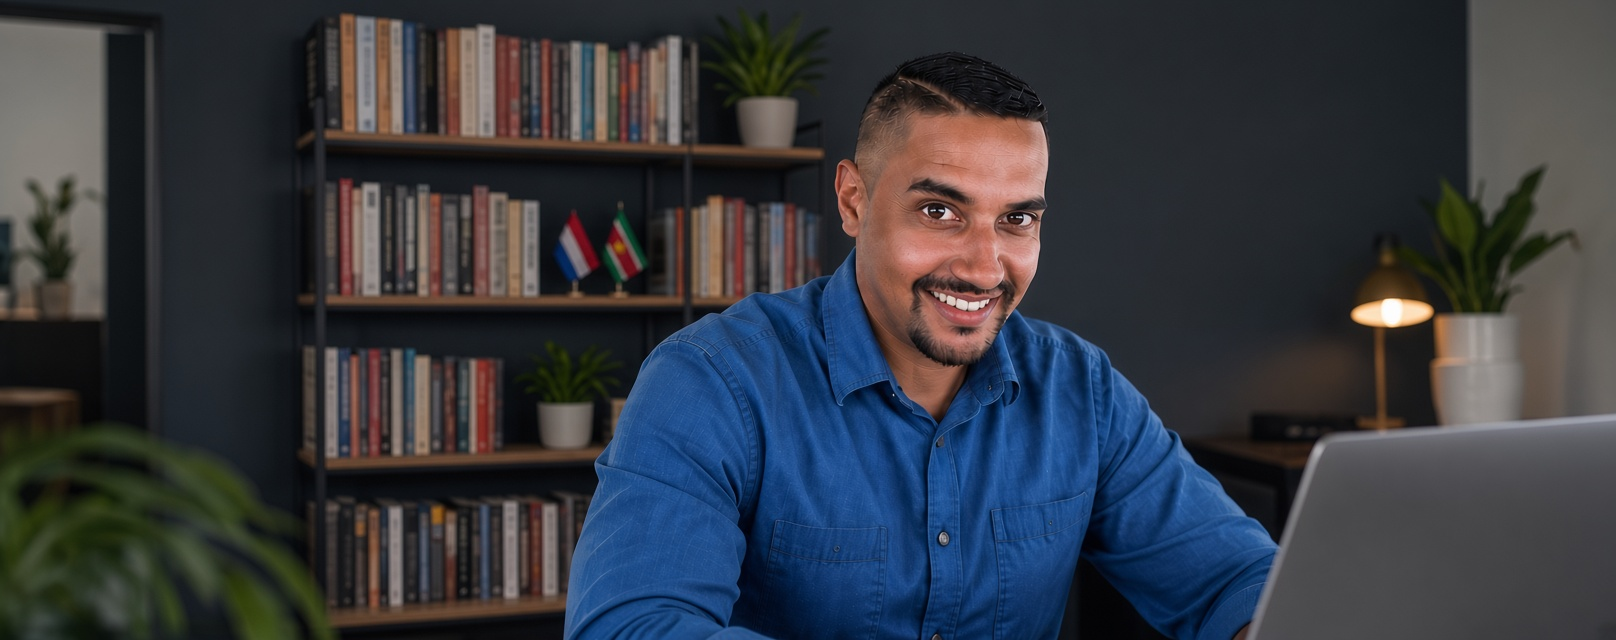
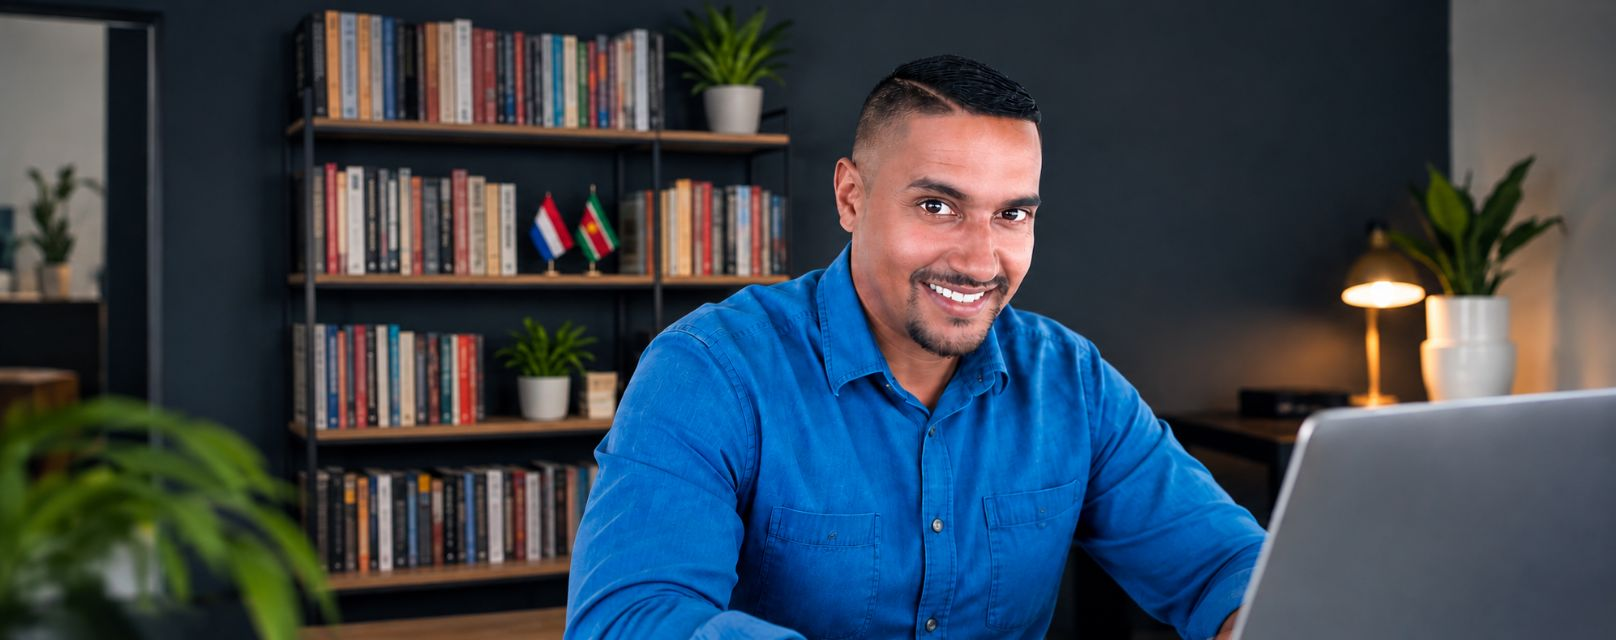
Add six projects to the portfolio and refresh the hero
New PROJECTS entries with real 1280x832 screenshots: De Erfeniswijzer,
FAKA, Coral Palm Suites, Discover Suriname, TechFix.sr and Spaar Quest.
Reordered so the list opens De Erfeniswijzer, FAKA, Suriname Spreekt,
Coral Palm Suites. Replaced assets/hero.png with the new photo (used by
the home hero, the Over mij portrait and og:image). README updated with
a capture note per project.

diff --git a/app.js b/app.js
@@ -10,16 +10,28 @@
 
   var PROJECTS = [
     {
-      id: 'faralobi', title: 'Faralobi', cat: 'Website', tag: 'Website & Branding',
-      url: 'https://faralobi.netlify.app/',
+      id: 'erfeniswijzer', title: 'De Erfeniswijzer', cat: 'Website', tag: 'Website & Content',
+      url: 'https://erfenis-rust-gids.abandhoe83.workers.dev/',
       media: [
-        { src: 'assets/faralobi-1-hero.jpg', alt: 'Faralobi — openingsscherm met "Waar Paramaribo aanschuift voor een bord vol lobi"' },
-        { src: 'assets/faralobi-2-verhaal.jpg', alt: 'Faralobi — sectie Ons verhaal' },
-        { src: 'assets/faralobi-3-menukaart.jpg', alt: 'Faralobi — sectie Vanavond bij Faralobi met de menukaart' },
-        { src: 'assets/faralobi-4-sfeer.jpg', alt: 'Faralobi — sfeerfoto’s van het terras en de tafels' }
+        { src: 'assets/erfeniswijzer-1-hero.jpg', alt: 'De Erfeniswijzer — openingsscherm "Uw gids bij nalatenschap en erfenis"' },
+        { src: 'assets/erfeniswijzer-2-hulp.jpg', alt: 'De Erfeniswijzer — pagina Hulp bij erfenis voor nabestaanden en executeurs' },
+        { src: 'assets/erfeniswijzer-3-kennisbank.jpg', alt: 'De Erfeniswijzer — Kennisbank met artikelen over nalatenschap en erfenis' },
+        { src: 'assets/erfeniswijzer-4-gids.jpg', alt: 'De Erfeniswijzer — pagina om de gratis gids te downloaden met aanmeldformulier' }
       ],
-      desc: 'Surinaams-Creoolse restaurantwebsite met menukaart en reservering.',
-      long: 'Een warme, sfeervolle website voor restaurant Faralobi. Met een dagelijkse menukaart per categorie, een sfeeropnamegalerij en een reserveringsformulier dat direct per e-mail of WhatsApp bij de eigenaar belandt.'
+      desc: 'Rustige, tweetalige website over nalatenschap en de afwikkeling van een erfenis.',
+      long: 'Een warme, toegankelijke website voor De Erfeniswijzer, die mensen begeleidt bij het regelen van hun nalatenschap en het afwikkelen van een erfenis. Met aparte routes voor voorbereiding en voor nabestaanden, een kennisbank met filterbare artikelen, een downloadbare gids en een contactpagina. Volledig tweetalig (NL/EN) en gebouwd op TanStack Start met server-side rendering op Cloudflare Workers.'
+    },
+    {
+      id: 'faka', title: 'FAKA', cat: 'Webshop', tag: 'Streetwear webshop & branding',
+      url: 'https://faka-vision-system.lovable.app/',
+      media: [
+        { src: 'assets/faka-1-hero.jpg', alt: 'FAKA — openingsscherm "Urban fashion for the next generation"' },
+        { src: 'assets/faka-2-shop.jpg', alt: 'FAKA — Shop All met filters op categorie en maat' },
+        { src: 'assets/faka-3-product.jpg', alt: 'FAKA — productpagina van de Oversized Hoodie met kleur- en maatkeuze' },
+        { src: 'assets/faka-4-collections.jpg', alt: 'FAKA — overzicht van collecties per categorie' }
+      ],
+      desc: 'Streetwear-webshop voor kinderen (8–14 jaar), gemaakt in Paramaribo.',
+      long: 'Een stoere, oversized streetwearwebshop voor FAKA — kinderkleding met dezelfde attitude en kwaliteit als volwassen labels, ontworpen in Paramaribo voor leeftijden 8 tot 14. Met een filterbare shop op categorie en maat, productpagina’s met kleur- en maatkeuze, collecties per categorie en een winkelmandje. Een consistente, brutale huisstijl met grote typografie en een lopende marquee.'
     },
     {
       id: 'surinamespreekt', title: 'Suriname Spreekt', cat: 'Website', tag: 'Nieuws- en opinieplatform',
@@ -34,6 +46,30 @@
       long: 'Voor Suriname Spreekt ontwierp en bouwde ik een modern, responsief webplatform dat nieuws en publieke opinie combineert. Gebruikers stemmen direct op actuele stellingen, lezen AI-samenvattingen van discussies, volgen opinietrends via een dashboard en kunnen zelf onderwerpen voorstellen. De interface is volledig tweetalig (NL/EN) en geoptimaliseerd voor mobiel gebruik.'
     },
     {
+      id: 'coralpalm', title: 'Coral Palm Suites', cat: 'Website', tag: 'Hotel- & zaalverhuurwebsite',
+      url: 'https://waterland-suites-showcase.lovable.app/',
+      media: [
+        { src: 'assets/coralpalm-1-hero.jpg', alt: 'Coral Palm Suites — openingsscherm "Hotel, vakantiewoningen en zaalverhuur in Paramaribo Zuid"' },
+        { src: 'assets/coralpalm-2-aanbod.jpg', alt: 'Coral Palm Suites — drie manieren om te genieten: hotelkamers, vakantiewoningen en zaalverhuur' },
+        { src: 'assets/coralpalm-3-woningen.jpg', alt: 'Coral Palm Suites — gemeubileerde vakantiewoningen met prijs per nacht' },
+        { src: 'assets/coralpalm-4-zaal.jpg', alt: 'Coral Palm Suites — de Coral Palm Lounge voor events, met pakketten van brons tot goud' }
+      ],
+      desc: 'Website voor een hotel met vakantiewoningen en zaalverhuur in Paramaribo Zuid.',
+      long: 'Een rustige, gastvrije one-page website voor Coral Palm Suites, waar hotelkamers, gemeubileerde vakantiewoningen en de Coral Palm Lounge voor events op één terrein samenkomen. Met aparte secties per verblijfsvorm, kamer- en woningkaarten met tarieven, eventpakketten van brons tot goud, een redenen-om-te-blijven overzicht, gastreviews en directe WhatsApp- en formulier-contactroutes. Tweetalig (NL/EN).'
+    },
+    {
+      id: 'faralobi', title: 'Faralobi', cat: 'Website', tag: 'Website & Branding',
+      url: 'https://faralobi.netlify.app/',
+      media: [
+        { src: 'assets/faralobi-1-hero.jpg', alt: 'Faralobi — openingsscherm met "Waar Paramaribo aanschuift voor een bord vol lobi"' },
+        { src: 'assets/faralobi-2-verhaal.jpg', alt: 'Faralobi — sectie Ons verhaal' },
+        { src: 'assets/faralobi-3-menukaart.jpg', alt: 'Faralobi — sectie Vanavond bij Faralobi met de menukaart' },
+        { src: 'assets/faralobi-4-sfeer.jpg', alt: 'Faralobi — sfeerfoto’s van het terras en de tafels' }
+      ],
+      desc: 'Surinaams-Creoolse restaurantwebsite met menukaart en reservering.',
+      long: 'Een warme, sfeervolle website voor restaurant Faralobi. Met een dagelijkse menukaart per categorie, een sfeeropnamegalerij en een reserveringsformulier dat direct per e-mail of WhatsApp bij de eigenaar belandt.'
+    },
+    {
       id: 'tikisu', title: 'TikiSu', cat: 'Website', tag: 'Ticketingplatform',
       url: 'https://suriname-event-spark.lovable.app',
       media: [
@@ -44,6 +80,42 @@
       ],
       desc: 'Ticketingplatform voor concerten, festivals, sport en cultuur in Suriname.',
       long: 'Een ticketingplatform waarop bezoekers evenementen zoeken op naam, locatie en datum, en boeken via een overzicht van uitgelichte, populaire en binnenkort startende evenementen — met een indeling per categorie van concerten tot sport, theater en religie.'
+    },
+    {
+      id: 'discoversuriname', title: 'Discover Suriname', cat: 'Website', tag: 'Toerismeplatform',
+      url: 'https://discover-suriname-guide.lovable.app/',
+      media: [
+        { src: 'assets/discoversuriname-1-hero.jpg', alt: 'Discover Suriname — openingsscherm "Ontdek de ongerepte ziel van Zuid-Amerika" met zoekbalk' },
+        { src: 'assets/discoversuriname-2-tours.jpg', alt: 'Discover Suriname — pagina Alle tours met filters op prijs, duur en locatie' },
+        { src: 'assets/discoversuriname-3-auto.jpg', alt: 'Discover Suriname — Autoverhuur met filters op voertuigtype en transmissie' },
+        { src: 'assets/discoversuriname-4-suriname.jpg', alt: 'Discover Suriname — pagina Over Suriname over natuur, rivieren en culturen' }
+      ],
+      desc: 'Tweetalig toerismeplatform voor tours, autoverhuur en transfers in Suriname.',
+      long: 'Een sfeervol, tweetalig (NL/EN) toerismeplatform voor Discover Suriname. Bezoekers zoeken en filteren tours op prijs, duur en locatie, huren een auto op voertuigtype en transmissie, boeken transfers en lezen over de bestemming. Met een zoekbalk in de hero, uitgelichte bestemmingen, reviews en een rustige, premium uitstraling.'
+    },
+    {
+      id: 'techfix', title: 'TechFix.sr', cat: 'Website', tag: 'Bedrijfswebsite & online betalen',
+      url: 'https://suri-tech-fix.lovable.app/',
+      media: [
+        { src: 'assets/techfix-1-hero.jpg', alt: 'TechFix.sr — openingsscherm "Snelle laptop en PC reparatie in Suriname"' },
+        { src: 'assets/techfix-2-diensten.jpg', alt: 'TechFix.sr — dienstenoverzicht met reparatie, upgrades en onderhoud' },
+        { src: 'assets/techfix-3-aanmelden.jpg', alt: 'TechFix.sr — online reparatieformulier met apparaatgegevens en foto-upload' },
+        { src: 'assets/techfix-4-betalen.jpg', alt: 'TechFix.sr — online betalen via Mope voor reparaties, aanbetalingen en facturen' }
+      ],
+      desc: 'Bedrijfswebsite voor een laptop- en PC-reparateur, met online aanmelden en betalen.',
+      long: 'Een strakke one-page bedrijfswebsite voor TechFix.sr, een laptop- en computerreparateur in Suriname. Met een volledig dienstenoverzicht, transparante richtprijzen, een uitgebreid online reparatieformulier (apparaattype, probleemomschrijving, foto-upload) en een betaalmodule via Mope voor reparaties, aanbetalingen en facturen. Verder een werkwijze in vijf stappen, reviews, FAQ en directe WhatsApp-contactknoppen.'
+    },
+    {
+      id: 'spaarquest', title: 'Spaar Quest', cat: 'Webapp', tag: 'Gamified spaartracker',
+      url: 'https://treasure-quest-bank.lovable.app/',
+      media: [
+        { src: 'assets/tqb-1-schatkist.jpg', alt: 'Spaar Quest — "Mijn Schatkist" met levelbalk, spaardoel en voortgang' },
+        { src: 'assets/tqb-2-buit.jpg', alt: 'Spaar Quest — sectie Buit Binnenhalen met verkochte items en het zakgeldpotje' },
+        { src: 'assets/tqb-3-oudermodus.jpg', alt: 'Spaar Quest — PIN-beveiligde Ouder Modus met zakgeld- en wisselkoersinstellingen' },
+        { src: 'assets/tqb-4-beheer.jpg', alt: 'Spaar Quest — Ouder Modus, beheer van verkopen en inkomsten per valuta' }
+      ],
+      desc: 'Gamified spaar-webapp voor kinderen, met een PIN-beveiligde oudermodus.',
+      long: 'Een speelse, gamified spaartracker-webapp voor kinderen: een "schatkist" met levels, voortgangsbalken en confetti bij het behalen van een doel. Kinderen volgen hun spaardoelen (zoals een e-bike of Xbox), boeken zakgeld en verkopen in, en zien alles omgerekend naar EUR, USD of SRD. Een PIN-beveiligde Ouder Modus laat ouders zakgeld, wisselkoersen, doelen en inkomsten beheren. Gebouwd met React en TanStack Start, met lokale opslag zodat de voortgang bewaard blijft.'
     },
     {
       id: 'social', title: 'Social Media Instellingen', cat: 'Branding', tag: 'Social Media Management',
@@ -61,11 +133,6 @@
       id: 'shop', title: 'Tropic Store', cat: 'Webshop', tag: 'WooCommerce', media: [], slot: 'webshop screenshot',
       desc: 'WooCommerce webshop met lokale betaalmethodes.',
       long: 'Complete WooCommerce webshop: productbeheer, voorraad, verzendzones en lokale betaalmethodes. Ingericht zodat de eigenaar alles zelf kan onderhouden.'
-    },
-    {
-      id: 'seo', title: 'Bouwbedrijf Kwatta', cat: 'SEO', tag: 'SEO & Optimalisatie', media: [], slot: 'before / after graph',
-      desc: 'Van pagina 4 naar top 3 in Google op kernzoektermen.',
-      long: 'Technische SEO-opschoning, snellere laadtijden en herschreven pagina’s per dienst. Binnen vier maanden een top 3-positie op de belangrijkste zoektermen.'
     },
     {
       id: 'brand', title: 'Sranan Kitchen', cat: 'Branding', tag: 'Logo & Huisstijl', media: [], slot: 'logo & huisstijl',
@@ -141,7 +208,7 @@
     { id: 'contact', label: 'Contact' }
   ];
 
-  var CATEGORIES = ['Alles', 'Website', 'Webshop', 'SEO', 'Branding'];
+  var CATEGORIES = ['Alles', 'Website', 'Webshop', 'Webapp', 'Branding'];
 
   var PAGE_TITLES = {
     home: 'Amresh — Freelance Webdesigner in Suriname',

diff --git a/assets/README.md b/assets/README.md
@@ -6,10 +6,16 @@
 | `faralobi-1-hero.jpg` … `faralobi-4-sfeer.jpg` | Faralobi portfolio slideshow (hero, Ons verhaal, Menukaart, Sfeer) |
 | `surinamespreekt-1-hero.jpg` … `surinamespreekt-4-voorstellen.jpg` | Suriname Spreekt portfolio slideshow (hero, nieuws met stelling, Opinie Index dashboard, Voorstellen) |
 | `tikisu-1-hero.jpg` … `tikisu-4-nieuwsbrief.jpg` | TikiSu portfolio slideshow (hero, uitgelichte evenementen, categorieën, nieuwsbrief) |
+| `erfeniswijzer-1-hero.jpg` … `erfeniswijzer-4-gids.jpg` | De Erfeniswijzer portfolio slideshow (hero, Hulp bij erfenis, Kennisbank, gratis gids) |
+| `faka-1-hero.jpg` … `faka-4-collections.jpg` | FAKA portfolio slideshow (hero, Shop All, productpagina, collecties) |
+| `discoversuriname-1-hero.jpg` … `discoversuriname-4-suriname.jpg` | Discover Suriname portfolio slideshow (hero, Alle tours, Autoverhuur, Over Suriname) |
+| `tqb-1-schatkist.jpg` … `tqb-4-beheer.jpg` | Spaar Quest portfolio slideshow (schatkist, Buit Binnenhalen, Ouder Modus, verkopen beheren) |
+| `techfix-1-hero.jpg` … `techfix-4-betalen.jpg` | TechFix.sr portfolio slideshow (hero, diensten, reparatie aanmelden, online betalen) |
+| `coralpalm-1-hero.jpg` … `coralpalm-4-zaal.jpg` | Coral Palm Suites portfolio slideshow (hero, aanbod, vakantiewoningen, zaalverhuur) |
 | `work2.png` | Social Media Instellingen portfolio thumbnail |
 | `work3.png` | Financial Life Plan portfolio thumbnail |
 
-The Tropic Store, Bouwbedrijf Kwatta and Sranan Kitchen entries in `PROJECTS`
+The Tropic Store and Sranan Kitchen entries in `PROJECTS`
 (in `app.js`) have no image yet — they show a placeholder slot label instead.
 Add a `media` entry and drop the `slot` field once a screenshot exists.
 
@@ -47,10 +53,72 @@ React SPA, no scroll-gated animations) from four routes: `/` (hero), `/nieuws`
 (article + stelling voting), `/dashboard` (the "Index" nav item — the actual
 route differs from its label), and `/voorstellen`.
 
+## The Erfeniswijzer screenshots
+
+`erfeniswijzer-*.jpg` are real screenshots of
+<https://erfenis-rust-gids.abandhoe83.workers.dev/>, a TanStack Start SSR site.
+Captured with headless system Chrome (`--headless=new --screenshot` at
+1280x832, `--virtual-time-budget` for the scroll-reveal content to settle) from
+four routes: `/` (hero), `/hulp-bij-erfenis`, `/kennisbank` and `/gratis-gids`,
+then re-encoded to JPEG. It was a one-off capture — no cached script in the
+repo. Re-run if the live site changes.
+
+## The FAKA screenshots
+
+`faka-*.jpg` are real screenshots of <https://faka-vision-system.lovable.app/>,
+a Lovable-hosted React SPA. Captured with headless system Chrome
+(`--headless=new --screenshot` at 1280x832, `--virtual-time-budget` to let the
+page settle) from four routes: `/` (hero), `/shop`, `/products/faka-oversized-hoodie`
+and `/collections`, then re-encoded to JPEG. The nav links `/new-drop`, `/about`
+etc. currently 404 on the live site, so those routes were avoided. They carry a
+small "Edit with Lovable" badge bottom-right — left in, since these are honest
+screenshots. One-off capture, no cached script.
+
+## The Discover Suriname screenshots
+
+`discoversuriname-*.jpg` are real screenshots of
+<https://discover-suriname-guide.lovable.app/>, a Lovable-hosted React SPA.
+Captured with headless system Chrome (`--headless=new --screenshot` at
+1280x832, `--virtual-time-budget` to let the page settle) from four routes:
+`/` (hero), `/tours`, `/auto-huren` and `/over-suriname`, then re-encoded to
+JPEG. They carry a small "Edit with Lovable" badge bottom-right — left in,
+since these are honest screenshots. One-off capture, no cached script.
+
+## The Spaar Quest screenshots
+
+`tqb-*.jpg` are real screenshots of <https://treasure-quest-bank.lovable.app/>,
+a Lovable-hosted React SPA (single route, state in `localStorage`). The kid
+dashboard is one scrolling screen and the Ouder Modus is behind a PIN, so a
+plain `--screenshot` per route was not enough — captured instead with a
+Playwright script (Chromium, 1280x832) that scrolls to each section and unlocks
+Ouder Modus with the default PIN `1234`, then re-encoded to JPEG. Views: the
+"Schatkist" dashboard, the Buit Binnenhalen section, the Ouder Modus settings,
+and the verkopen/inkomsten beheer. "Edit with Lovable" badge left in. One-off
+capture, no cached script.
+
+## The TechFix.sr screenshots
+
+`techfix-*.jpg` are real screenshots of <https://suri-tech-fix.lovable.app/>, a
+Lovable-hosted one-page React site. Captured with a Playwright script (Chromium,
+1280x832) that scrolls to each anchor section (`#top`, `#diensten`,
+`#reparatie`, `#betalen`) and settles before shooting, then re-encoded to JPEG.
+"Edit with Lovable" badge and the floating WhatsApp button are part of the live
+page. One-off capture, no cached script.
+
+## The Coral Palm Suites screenshots
+
+`coralpalm-*.jpg` are real screenshots of
+<https://waterland-suites-showcase.lovable.app/>, a Lovable-hosted one-page
+React site (no routes — all nav is in-page anchors). Captured with a Playwright
+script (Chromium, 1280x832) that scrolls to a heading in each section (hero,
+"Drie manieren…", "Uw eigen plek…", "Een zaal die net zo gastvrij…") and
+settles before shooting, then re-encoded to JPEG. "Edit with Lovable" badge left
+in. One-off capture, no cached script.
+
 ## The slideshow
 
 A project with more than one `media` entry (currently Faralobi, Suriname
-Spreekt and TikiSu) renders as a crossfading slideshow instead of a static
+Spreekt, TikiSu, De Erfeniswijzer, FAKA, Discover Suriname, Spaar Quest, TechFix.sr and Coral Palm Suites) renders as a crossfading slideshow instead of a static
 image — see `mediaMarkup()` / `initSlideshows()` in `app.js` and the
 `.slideshow` rules in `styles.css`. It appears on the portfolio card, the home
 "Recente projecten" card, and the detail modal. The crossfade is skipped under
